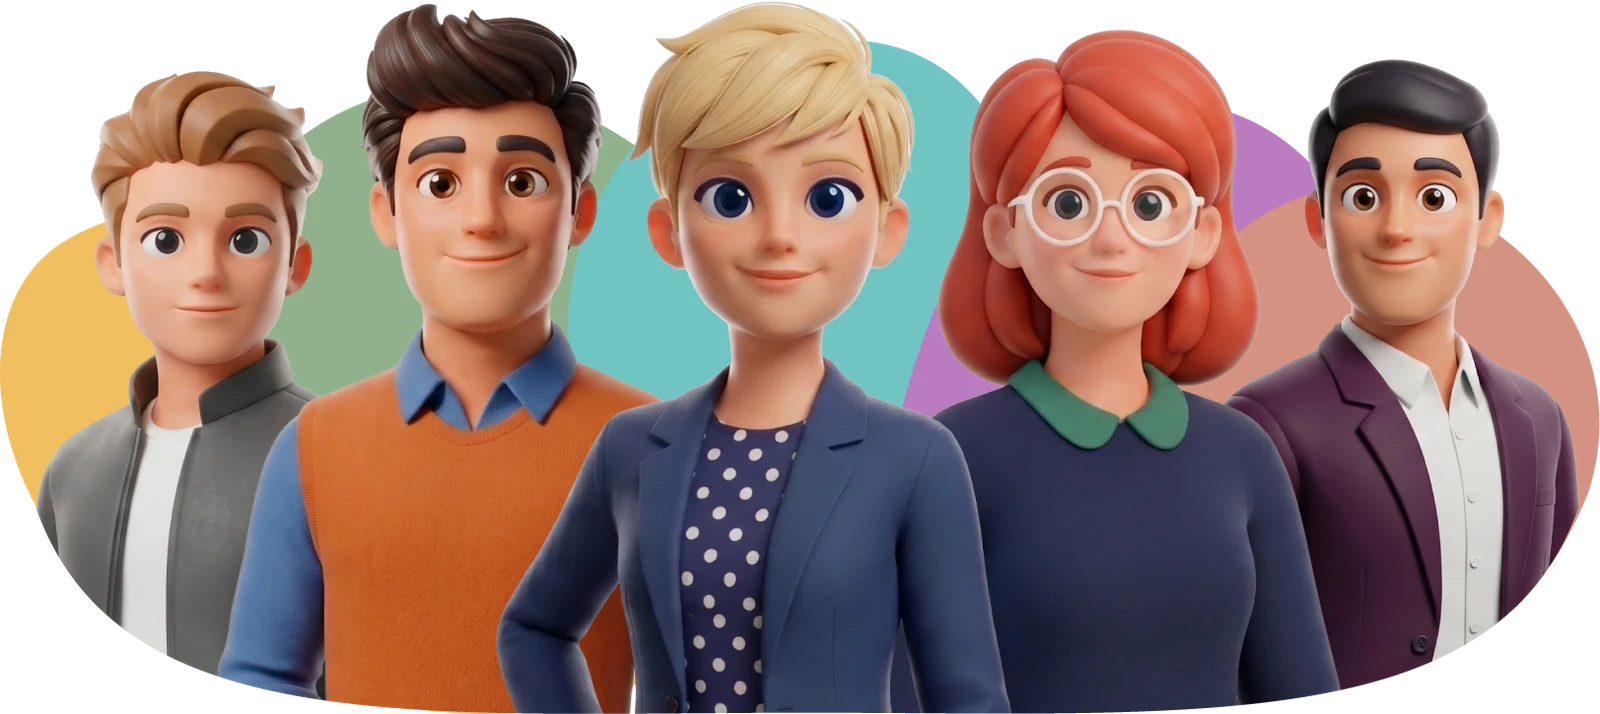
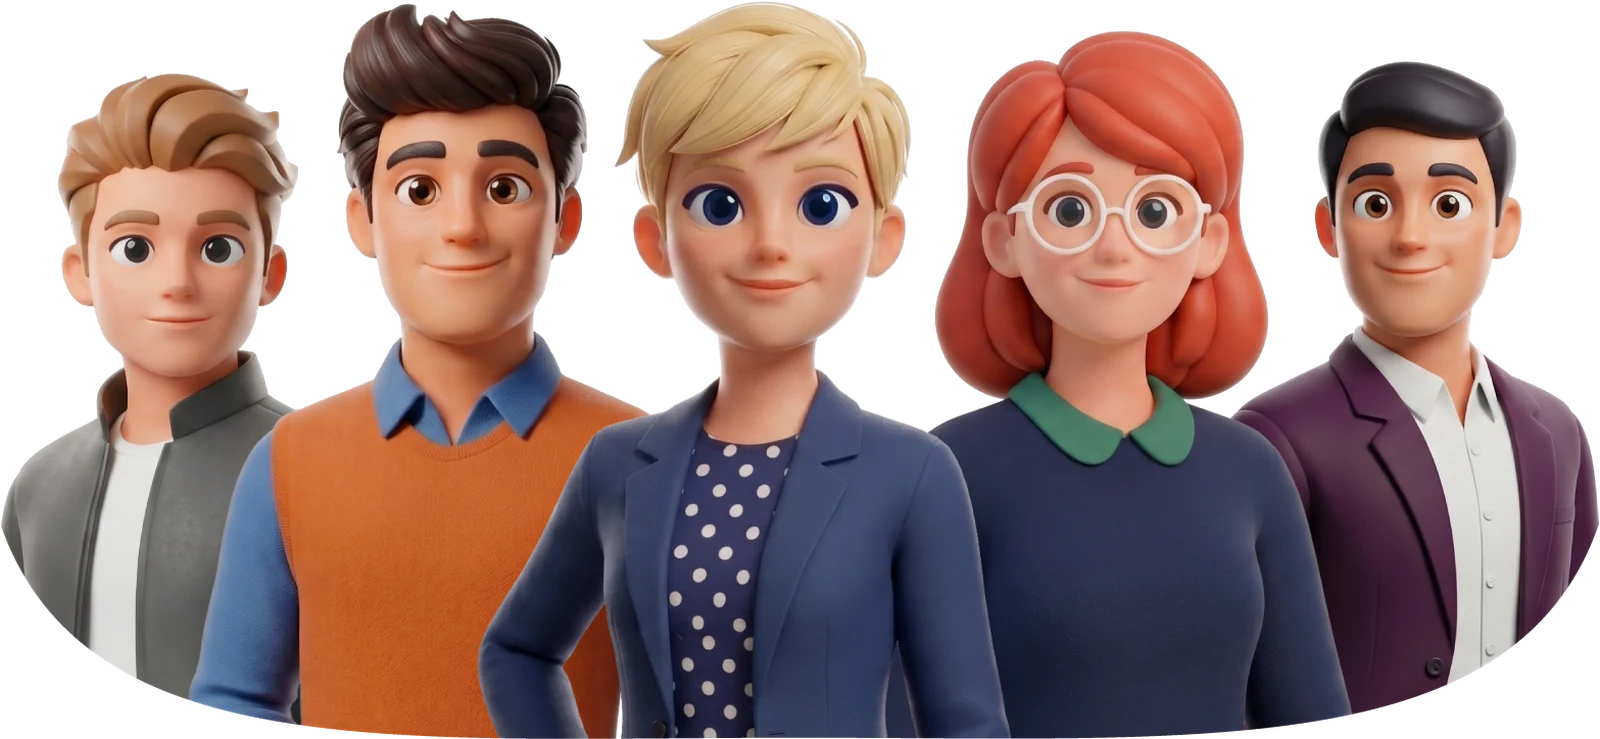
feat(landing): reworked Cervo team and workspace illustrations
New art without the backdrop blobs; sizes adjusted to the new crops and
the cache-bust version bumped to v=3 so Cloudflare serves the new files.

diff --git a/src/components/home/landing/WorkspaceSection.tsx b/src/components/home/landing/WorkspaceSection.tsx
@@ -51,8 +51,8 @@ export default function WorkspaceSection() {
               lockupRatio={1018 / 123}
                 copy={<>Where teams and AI<br />agents work together,<br />literally</>}
             />
-            <img className={s.wshIll} src="/landing/workspace-illustrated.webp?v=2" alt="" width={1200} height={647} />
-            <img className={s.wshReal} src="/landing/workspace-people.webp?v=2" alt="" width={1200} height={627} />
+            <img className={s.wshIll} src="/landing/workspace-illustrated.webp?v=3" alt="" width={1200} height={762} />
+            <img className={s.wshReal} src="/landing/workspace-people.webp?v=3" alt="" width={1200} height={683} />
           </div>
         </div>
 

diff --git a/src/components/home/landing/landing.module.css b/src/components/home/landing/landing.module.css
@@ -284,9 +284,9 @@
 }
 .fbPeople {
   position: absolute;
-  left: 23.6cqw;
+  left: 24.5cqw;
   bottom: 0;
-  width: 52.8cqw;
+  width: 51cqw;
   height: auto;
 }
 .fbGlow {
@@ -826,16 +826,16 @@
 .wg2 { left: 50cqw; top: 28cqw; width: 22cqw; height: 14cqw; background: rgba(206, 198, 255, 0.55); }
 .wshIll {
   position: absolute;
-  left: 5.1cqw;
+  left: 7.78cqw;
   bottom: 0;
-  width: 36.24cqw;
+  width: 30.88cqw;
   height: auto;
 }
 .wshReal {
   position: absolute;
-  left: 59.9cqw;
+  left: 61.5cqw;
   bottom: 0;
-  width: 40.08cqw;
+  width: 36.87cqw;
   height: auto;
 }
 .stage {

diff --git a/src/components/home/landing/CervoSection.tsx b/src/components/home/landing/CervoSection.tsx
@@ -112,7 +112,7 @@ export default function CervoSection() {
             lockupRatio={923 / 118}
             copy={<>A team of AI agents,<br />each with its own brain,<br />memory and computer</>}
           />
-          <img className={s.fbPeople} src="/landing/cervo-team.webp?v=2" alt="" width={1600} height={714} />
+          <img className={s.fbPeople} src="/landing/cervo-team.webp?v=3" alt="" width={1600} height={739} />
         </div>
 
         {/* Connectivity strip, as in Figma (node 13:8902). */}
